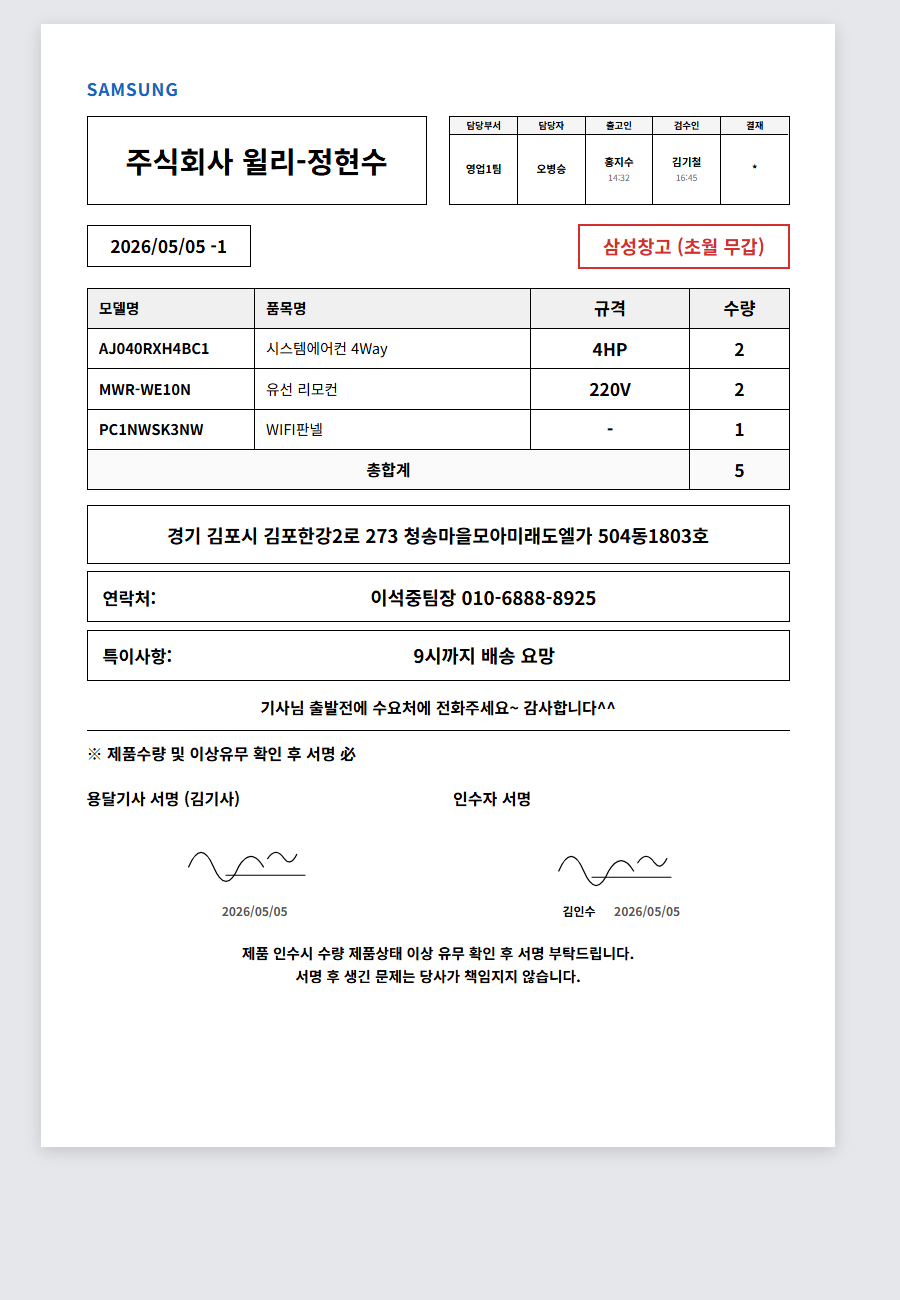
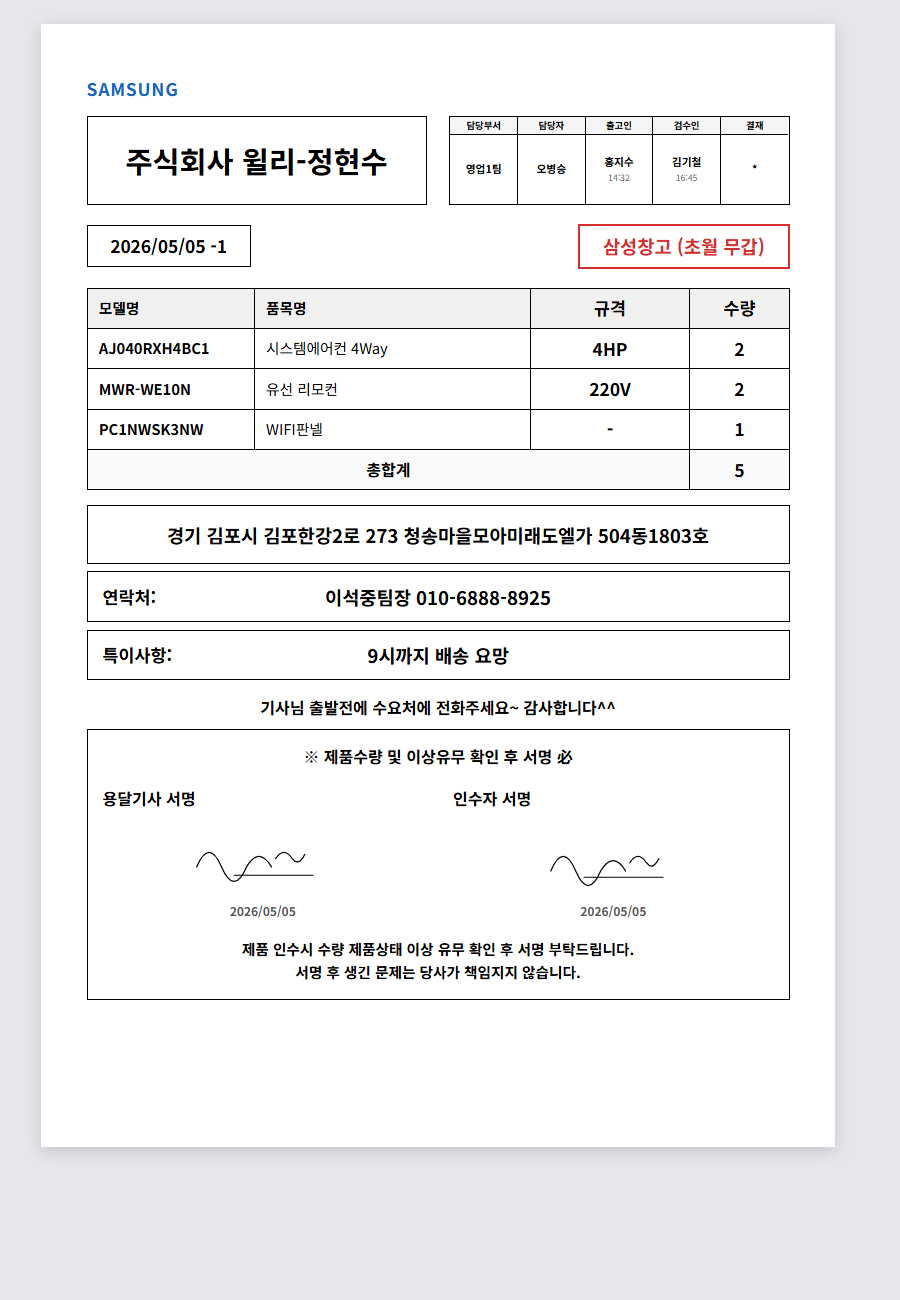
fix(signature-slice-C2): CI @Lob 제거 + 양식 4건 정정 + 슬립→전표 mock 동기화
## CI fix (74 IT fail 추가 발생)
- Slip.signaturePng / driverSignaturePng 의 @Lob 제거
- Hibernate 6 PostgreSQL 에서 @Lob byte[] 는 oid 매핑 → V5/V6 BYTEA 컬럼과
  mismatch → SchemaManagementException → ApplicationContext 부팅 실패 → 74 IT fail
- @Lob 미사용 시 byte[] 가 BYTEA 로 자동 매핑 (의도)
- Javadoc 회귀 가드 추가

## 양식 4건 정정 (사용자 요청)
1. 용달기사/인수자 모두 이름 노출 X (signerName/driverName 표시 제거)
   - DispatchView.tsx: alt 텍스트 + meta span 정리
2. 연락처/특이사항 데이터 → 박스 전체 너비 가운데 정렬
   - global.css `.dispatch-info-box`: position: relative + label absolute + content text-align center
3. 하단 confirm-notice + signatures + liability-notice → 1박스
   - 신규 `.dispatch-liability-box` + DispatchView.tsx wrapper
4. 화면 높이 자동 / 인쇄 시 A4 강제
   - @media print 에 `.dispatch-page { height: 297mm }` + @page A4

## 슬립 → 전표 mock 동기화
- mocks/01,02,03 의 "슬립 상세"/"슬립번호" → "전표 상세"/"전표번호"
- 4 캡처 모두 480px(모바일) / 900px(인쇄) 재캡처

검증: compileJava + 단위 PASS, desktop typecheck PASS.

diff --git a/docs/design/signature-slice-C/mocks/04_dispatch_print_with_signature.html b/docs/design/signature-slice-C/mocks/04_dispatch_print_with_signature.html
@@ -11,10 +11,16 @@ body {
   margin: 0;
   font-family: 'Pretendard', 'Noto Sans KR', sans-serif;
 }
+/* 화면: min-height 만 (품목 늘어나면 자동 확장). 인쇄: A4 자동 맞춤 */
 .dispatch-page {
   width: 210mm; min-height: 297mm; margin: 0 auto; background: #FFF;
   font-size: 11pt; line-height: 1.4; color: #000; padding: 12mm;
   box-sizing: border-box; box-shadow: 0 4px 16px rgba(0,0,0,0.15);
+}
+@media print {
+  @page { size: A4; margin: 0; }
+  body { background: #FFF; padding: 0; }
+  .dispatch-page { width: 210mm; min-height: auto; height: 297mm; box-shadow: none; margin: 0; }
 }
 
 .dispatch-logo-strip { padding: 2mm 0; margin-bottom: 2mm; }
@@ -53,9 +59,10 @@ body {
 
 .dispatch-bottom-group { margin-top: 4mm; }
 .dispatch-address-box { border: 1px solid #000; padding: 4mm; font-size: 14pt; font-weight: 600; text-align: center; margin-bottom: 2mm; }
-.dispatch-info-box { border: 1px solid #000; padding: 3mm 4mm; margin-bottom: 2mm; display: flex; align-items: baseline; gap: 6mm; }
-.dispatch-info-box .label { font-size: 13pt; font-weight: 700; min-width: 18mm; flex-shrink: 0; }
-.dispatch-info-box .content { flex: 1; font-size: 14pt; font-weight: 600; text-align: center; }
+/* 라벨 좌측 absolute, 데이터는 박스 전체 너비 기준 가운데 정렬 (사용자 명시) */
+.dispatch-info-box { border: 1px solid #000; padding: 3mm 4mm; margin-bottom: 2mm; position: relative; }
+.dispatch-info-box .label { position: absolute; left: 4mm; top: 50%; transform: translateY(-50%); font-size: 13pt; font-weight: 700; }
+.dispatch-info-box .content { display: block; text-align: center; font-size: 14pt; font-weight: 600; }
 .dispatch-driver-call-notice { text-align: center; font-size: 12pt; font-weight: 600; margin: 4mm 0 2mm 0; }
 .dispatch-confirm-notice { font-size: 12pt; font-weight: 700; margin: 3mm 0 2mm 0; border-top: 1px solid #000; padding-top: 3mm; }
 
@@ -73,7 +80,11 @@ body {
 .dispatch-role-signature-meta .name { font-weight: 600; margin-right: 4mm; }
 .dispatch-role-signature-meta .date { color: #555; font-variant-numeric: tabular-nums; }
 
-.dispatch-liability-notice { text-align: center; font-size: 11pt; font-weight: 600; margin-top: 4mm; line-height: 1.6; }
+/* 하단 책임 안내문: 박스로 묶기 (사용자 명시) — confirm-notice + signatures + liability-notice 한 박스 */
+.dispatch-liability-box { border: 1px solid #000; padding: 4mm; margin-top: 3mm; }
+.dispatch-liability-box .dispatch-confirm-notice { font-size: 12pt; font-weight: 700; text-align: center; margin: 0 0 3mm 0; padding: 0; border: none; }
+.dispatch-liability-box .dispatch-signatures { margin: 3mm 0; }
+.dispatch-liability-notice { text-align: center; font-size: 11pt; font-weight: 600; margin: 3mm 0 0 0; line-height: 1.6; }
 </style>
 </head><body>
 <div class="dispatch-page">
@@ -114,36 +125,34 @@ body {
     <div class="dispatch-info-box"><span class="label">연락처:</span><span class="content">이석중팀장 010-6888-8925</span></div>
     <div class="dispatch-info-box"><span class="label">특이사항:</span><span class="content">9시까지 배송 요망</span></div>
     <p class="dispatch-driver-call-notice">기사님 출발전에 수요처에 전화주세요~ 감사합니다^^</p>
-    <p class="dispatch-confirm-notice">※ 제품수량 및 이상유무 확인 후 서명 必</p>
 
-    <!-- Slice C2 신규: 기사 서명 + 인수자 서명 둘 다 PNG 표시 -->
-    <div class="dispatch-signatures">
-      <div class="dispatch-sign-label-only dispatch-recipient-sign-cell">
-        용달기사 서명 (김기사)
-        <svg class="dispatch-role-signature-img" viewBox="0 0 400 200" xmlns="http://www.w3.org/2000/svg" role="img" aria-label="김기사 서명">
-          <path d="M 40 120 Q 70 50, 100 120 T 160 120 Q 190 70, 220 120" fill="none" stroke="#000" stroke-width="3" stroke-linecap="round" stroke-linejoin="round"/>
-          <path d="M 230 100 Q 250 70, 270 100 Q 285 120, 300 90" fill="none" stroke="#000" stroke-width="3" stroke-linecap="round"/>
-          <path d="M 130 140 L 320 140" fill="none" stroke="#000" stroke-width="2.5" stroke-linecap="round"/>
-        </svg>
-        <div class="dispatch-role-signature-meta">
-          <span class="date">2026/05/05</span>
+    <!-- 사용자 명시: confirm-notice + 양측 서명 + 책임 안내문을 하나의 박스로 묶기. 이름 미노출. -->
+    <div class="dispatch-liability-box">
+      <p class="dispatch-confirm-notice">※ 제품수량 및 이상유무 확인 후 서명 必</p>
+
+      <div class="dispatch-signatures">
+        <div class="dispatch-sign-label-only dispatch-recipient-sign-cell">
+          용달기사 서명
+          <svg class="dispatch-role-signature-img" viewBox="0 0 400 200" xmlns="http://www.w3.org/2000/svg" role="img" aria-label="기사 서명">
+            <path d="M 40 120 Q 70 50, 100 120 T 160 120 Q 190 70, 220 120" fill="none" stroke="#000" stroke-width="3" stroke-linecap="round" stroke-linejoin="round"/>
+            <path d="M 230 100 Q 250 70, 270 100 Q 285 120, 300 90" fill="none" stroke="#000" stroke-width="3" stroke-linecap="round"/>
+            <path d="M 130 140 L 320 140" fill="none" stroke="#000" stroke-width="2.5" stroke-linecap="round"/>
+          </svg>
+          <div class="dispatch-role-signature-meta"><span class="date">2026/05/05</span></div>
+        </div>
+        <div class="dispatch-sign-label-only dispatch-recipient-sign-cell">
+          인수자 서명
+          <svg class="dispatch-role-signature-img" viewBox="0 0 400 200" xmlns="http://www.w3.org/2000/svg" role="img" aria-label="인수자 서명">
+            <path d="M 50 130 Q 80 60, 110 130 T 170 130 Q 200 80, 230 130" fill="none" stroke="#000" stroke-width="3" stroke-linecap="round" stroke-linejoin="round"/>
+            <path d="M 240 110 Q 260 80, 280 110 Q 295 130, 310 100" fill="none" stroke="#000" stroke-width="3" stroke-linecap="round"/>
+            <path d="M 130 145 L 320 145" fill="none" stroke="#000" stroke-width="2.5" stroke-linecap="round"/>
+          </svg>
+          <div class="dispatch-role-signature-meta"><span class="date">2026/05/05</span></div>
         </div>
       </div>
-      <div class="dispatch-sign-label-only dispatch-recipient-sign-cell">
-        인수자 서명
-        <svg class="dispatch-role-signature-img" viewBox="0 0 400 200" xmlns="http://www.w3.org/2000/svg" role="img" aria-label="김인수 서명">
-          <path d="M 50 130 Q 80 60, 110 130 T 170 130 Q 200 80, 230 130" fill="none" stroke="#000" stroke-width="3" stroke-linecap="round" stroke-linejoin="round"/>
-          <path d="M 240 110 Q 260 80, 280 110 Q 295 130, 310 100" fill="none" stroke="#000" stroke-width="3" stroke-linecap="round"/>
-          <path d="M 130 145 L 320 145" fill="none" stroke="#000" stroke-width="2.5" stroke-linecap="round"/>
-        </svg>
-        <div class="dispatch-role-signature-meta">
-          <span class="name">김인수</span>
-          <span class="date">2026/05/05</span>
-        </div>
-      </div>
+
+      <p class="dispatch-liability-notice">제품 인수시 수량 제품상태 이상 유무 확인 후 서명 부탁드립니다.<br/>서명 후 생긴 문제는 당사가 책임지지 않습니다.</p>
     </div>
-
-    <p class="dispatch-liability-notice">제품 인수시 수량 제품상태 이상 유무 확인 후 서명 부탁드립니다.<br/>서명 후 생긴 문제는 당사가 책임지지 않습니다.</p>
   </div>
 </div>
 </body></html>

diff --git a/clients/desktop/src/renderer/print/DispatchView.tsx b/clients/desktop/src/renderer/print/DispatchView.tsx
@@ -180,6 +180,9 @@ export function DispatchView() {
           <p className="dispatch-driver-call-notice">
             기사님 출발전에 수요처에 전화주세요~ 감사합니다^^
           </p>
+
+          {/* 사용자 명시 (Slice C2 follow-up): confirm + signatures + liability 한 박스로 묶기 */}
+          <div className="dispatch-liability-box">
           <p className="dispatch-confirm-notice">
             ※ 제품수량 및 이상유무 확인 후 서명 必
           </p>
@@ -190,13 +193,13 @@ export function DispatchView() {
               인쇄 본문 디자인 자체는 변경 X (피드백 `feedback_print_design_iteration.md` 가드).
             */}
             <div className="dispatch-sign-label-only dispatch-recipient-sign-cell">
-              용달기사 서명{slip.driverName ? ` (${slip.driverName})` : ''}
+              용달기사 서명
               {slip.driverSignaturePng ? (
                 <>
                   <img
                     className="dispatch-role-signature-img"
                     src={slip.driverSignaturePng}
-                    alt={`${slip.driverName ?? '기사'} 서명`}
+                    alt="용달기사 서명"
                   />
                   <div className="dispatch-role-signature-meta">
                     <span className="date">{slip.driverSignedAt?.slice(0, 10) ?? ''}</span>
@@ -212,15 +215,14 @@ export function DispatchView() {
             */}
             <div className="dispatch-sign-label-only dispatch-recipient-sign-cell">
               인수자 서명
-              {slip.signaturePng && slip.signerName ? (
+              {slip.signaturePng ? (
                 <>
                   <img
                     className="dispatch-role-signature-img"
                     src={slip.signaturePng}
-                    alt={`${slip.signerName} 인수자 서명`}
+                    alt="인수자 서명"
                   />
                   <div className="dispatch-role-signature-meta">
-                    <span className="name">{slip.signerName}</span>
                     <span className="date">{slip.signedAt?.slice(0, 10) ?? ''}</span>
                   </div>
                 </>
@@ -232,6 +234,7 @@ export function DispatchView() {
             제품 인수시 수량 제품상태 이상 유무 확인 후 서명 부탁드립니다.<br />
             서명 후 생긴 문제는 당사가 책임지지 않습니다.
           </p>
+          </div>
         </div>
       </div>
     </div>

diff --git a/clients/desktop/src/renderer/styles/global.css b/clients/desktop/src/renderer/styles/global.css
@@ -1138,28 +1138,28 @@ button {
   margin-bottom: 2mm;
 }
 
+/* 라벨 좌측 absolute, 데이터는 박스 전체 너비 기준 가운데 정렬 (사용자 명시 hotfix) */
 .dispatch-info-box {
   border: 1px solid #000;
   padding: 3mm 4mm;
   margin-bottom: 2mm;
-  display: flex;
-  align-items: baseline;
-  gap: 6mm;
+  position: relative;
 }
 
 .dispatch-info-box .label {
+  position: absolute;
+  left: 4mm;
+  top: 50%;
+  transform: translateY(-50%);
   font-size: 13pt;
   font-weight: 700;
-  min-width: 18mm;
-  flex-shrink: 0;
 }
 
-/* 라벨은 좌측 정렬 유지, 데이터는 우측 영역에서 가운데 정렬 (사용자 명시) */
 .dispatch-info-box .content {
-  flex: 1;
+  display: block;
+  text-align: center;
   font-size: 14pt;
   font-weight: 600;
-  text-align: center;
 }
 
 .dispatch-driver-call-notice {
@@ -1227,6 +1227,23 @@ button {
   line-height: 1.6;
 }
 
+/* 사용자 명시 (Slice C2 follow-up): confirm-notice + signatures + liability-notice 한 박스로 묶기 */
+.dispatch-liability-box {
+  border: 1px solid #000;
+  padding: 4mm;
+  margin-top: 3mm;
+}
+.dispatch-liability-box .dispatch-confirm-notice {
+  font-size: 12pt;
+  font-weight: 700;
+  text-align: center;
+  margin: 0 0 3mm 0;
+  padding: 0;
+  border: none;
+}
+.dispatch-liability-box .dispatch-signatures { margin: 3mm 0; }
+.dispatch-liability-box .dispatch-liability-notice { margin: 3mm 0 0 0; }
+
 /* @media print — 인쇄 시 사이드바/헤더/no-print 클래스 모두 숨김
  * (Designer print-spec.md § 1 인용)
  */
@@ -1252,6 +1269,15 @@ button {
     margin: 0;
     padding: 0;
     max-width: none;
+  }
+
+  /* 사용자 명시: 화면에서는 품목 늘어나면 같이 확장, 인쇄 시에만 A4 297mm 강제 */
+  @page { size: A4; margin: 0; }
+  .dispatch-page {
+    width: 210mm;
+    height: 297mm;
+    min-height: auto;
+    page-break-after: always;
   }
 
   /* 색상 강제 출력 (배경/border 흑백 출력 안전) */

diff --git a/docs/design/signature-slice-C/mocks/01_mobile_signature_page.html b/docs/design/signature-slice-C/mocks/01_mobile_signature_page.html
@@ -224,9 +224,9 @@
     <a class="m-back-link" href="#">◀ 목록으로</a>
 
     <article class="m-slip-card">
-      <h1 class="m-slip-card-title">슬립 상세</h1>
+      <h1 class="m-slip-card-title">전표 상세</h1>
       <p class="m-slip-info"><span class="m-slip-info-label">거래처:</span>한국전력</p>
-      <p class="m-slip-info-sm"><span class="m-slip-info-label">슬립번호:</span>2026/05/05-1</p>
+      <p class="m-slip-info-sm"><span class="m-slip-info-label">전표번호:</span>2026/05/05-1</p>
       <p class="m-slip-info-sm"><span class="m-slip-info-label">배송지:</span>서울시 강남구 테헤란로 152, 강남파이낸스센터 22층</p>
 
       <hr class="m-divider" />

diff --git a/docs/design/signature-slice-C/mocks/03_recipient_share_view.html b/docs/design/signature-slice-C/mocks/03_recipient_share_view.html
@@ -170,7 +170,7 @@
     <article class="m-card">
       <h1 class="m-card-title">출고 인수증</h1>
       <p class="m-info"><span class="m-info-label">거래처:</span>한국전력</p>
-      <p class="m-info-sm"><span class="m-info-label">슬립번호:</span>2026/05/05-1</p>
+      <p class="m-info-sm"><span class="m-info-label">전표번호:</span>2026/05/05-1</p>
       <p class="m-info-sm"><span class="m-info-label">배송일:</span>2026/05/05</p>
       <p class="m-info-sm"><span class="m-info-label">배송지:</span>서울시 강남구 테헤란로 152, 강남파이낸스센터 22층</p>
 

diff --git a/services/slip-service/src/main/java/com/samhanair/logis/slip/domain/Slip.java b/services/slip-service/src/main/java/com/samhanair/logis/slip/domain/Slip.java
@@ -194,8 +194,11 @@ public class Slip extends BaseEntity {
     /**
      * 서명 PNG 바이너리 — Slice C. ≤50KB (서비스 레이어 가드).
      * Q2 결정: DB bytea (월 1만건 미만 단계) — Phase 6+ MinIO 마이그.
+     *
+     * NOTE: {@code @Lob} 미사용 — Hibernate 6 PostgreSQL 에서 {@code @Lob byte[]} 는
+     * {@code oid} (large object) 로 매핑되어 V5 의 {@code BYTEA} 컬럼과 mismatch
+     * → SchemaManagementException. byte[] + 명시 nothing 으로 BYTEA 매핑 위임.
      */
-    @Lob
     @Column(name = "signature_png")
     private byte[] signaturePng;
 
@@ -239,8 +242,7 @@ public class Slip extends BaseEntity {
     @Column(name = "driver_signed_at")
     private LocalDateTime driverSignedAt;
 
-    /** 배송기사 서명 PNG ≤50KB. */
-    @Lob
+    /** 배송기사 서명 PNG ≤50KB. NOTE: signaturePng 와 동일 — @Lob 미사용 (BYTEA 매핑). */
     @Column(name = "driver_signature_png")
     private byte[] driverSignaturePng;
 
